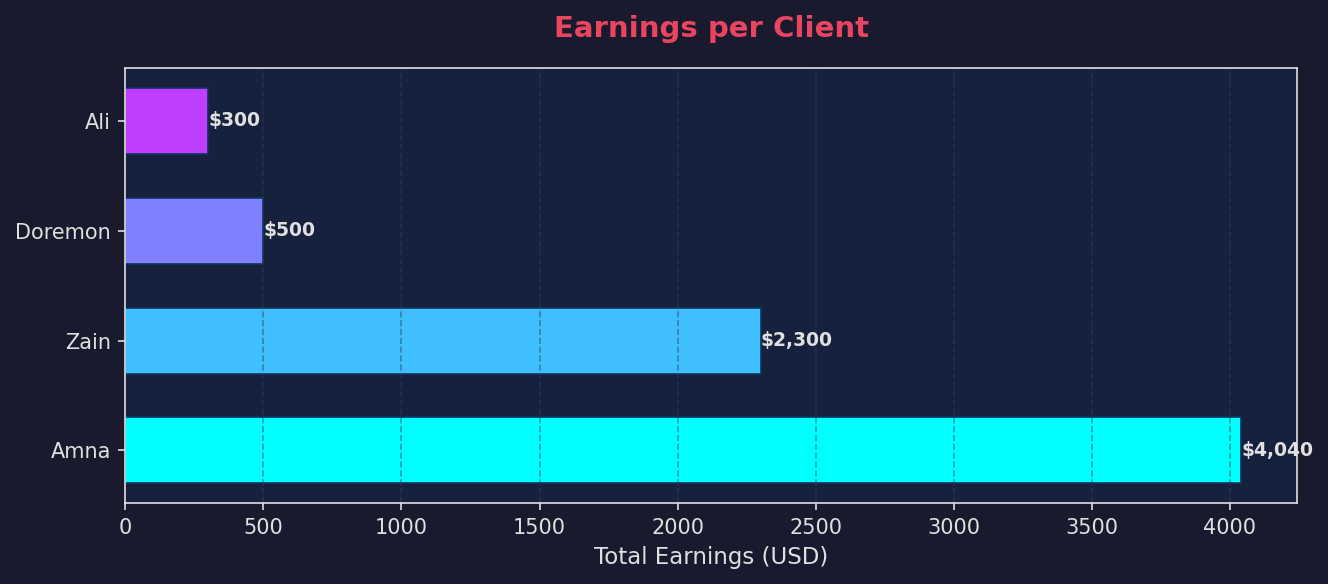
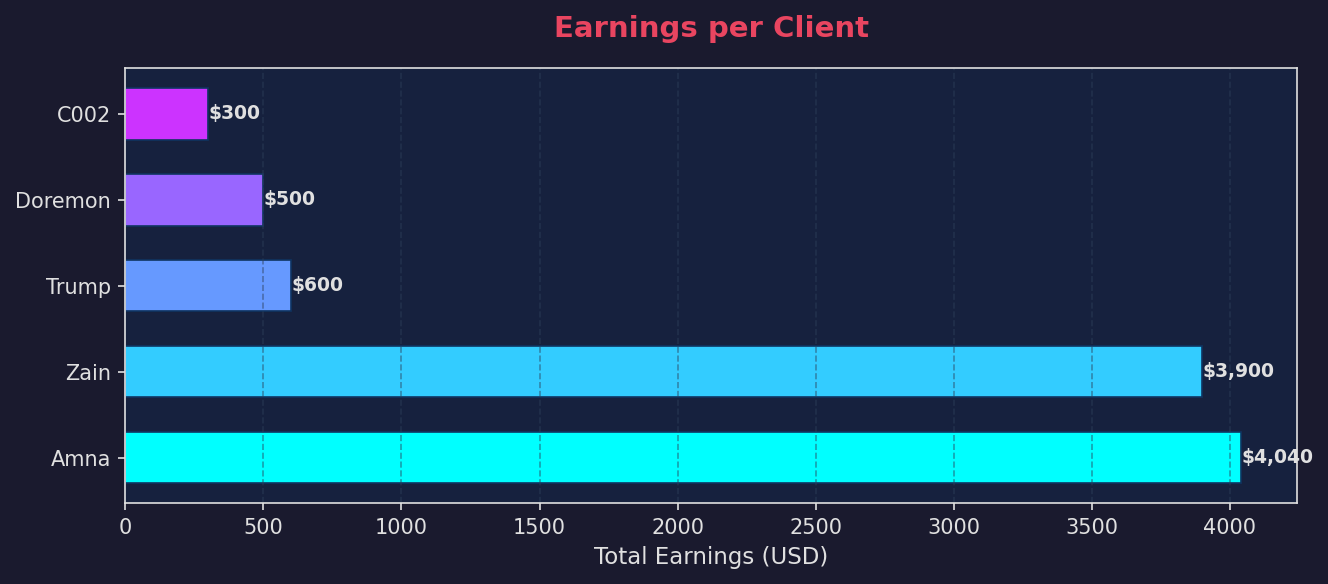
new changes

diff --git a/utils/emailer.py b/utils/emailer.py
@@ -1,6 +1,5 @@
 import os
 import smtplib
-import ssl
 from email.message import EmailMessage
 from dotenv import load_dotenv
 
@@ -71,7 +70,7 @@ def send_invoice_email(invoice, client):
 
     # send the email
     try:
-        with smtplib.SMTP_SSL("smtp.gmail.com", "465", timeout=30) as smtp:
+        with smtplib.SMTP_SSL("smtp.gmail.com", 465, timeout=30) as smtp:
             smtp.login(user, password)
             smtp.send_message(msg)
         return True, f"Email '{to_email}' was sent successfully"